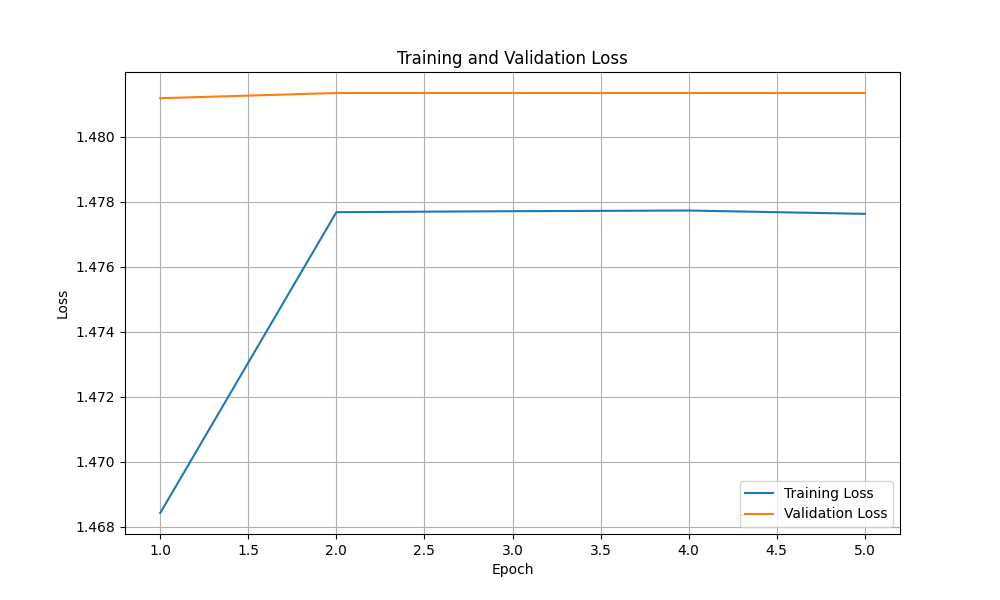
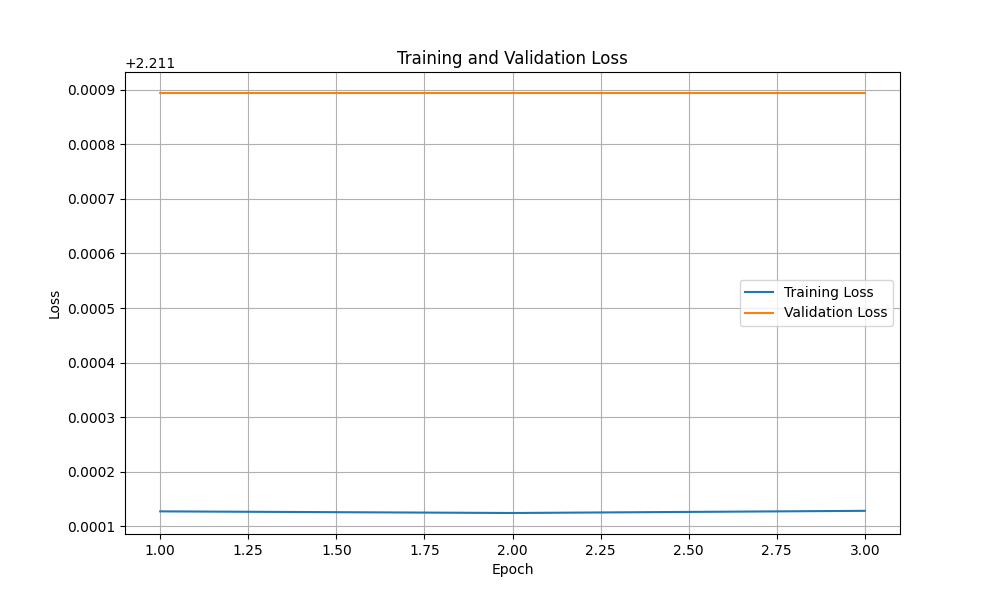
training is not happening properly. leraning rate changed to 0.001 and weight decay is removed

diff --git a/test_programs/task_3/test.py b/test_programs/task_3/test.py
@@ -45,7 +45,7 @@ device = torch.device("cuda" if torch.cuda.is_available() else "cpu")
 mlp_model = CustomMLP().to(device)
 
 loss_fn = nn.BCELoss()
-optimizer = optim.Adam(mlp_model.parameters(), lr=0.0005,weight_decay=0.01)
+optimizer = optim.Adam(mlp_model.parameters(), lr=0.001)
 
 checkpoint_path = "checkpoint.pth"  # Path to save/load checkpoint
 
@@ -65,7 +65,7 @@ def load_checkpoint(filename=checkpoint_path):
     if os.path.exists(filename):
         checkpoint = torch.load(filename)
         model = CustomMLP().to(device)
-        optimizer = optim.Adam(model.parameters(), lr=0.0005,weight_decay=0.01)
+        optimizer = optim.Adam(model.parameters(), lr=0.001)
         model.load_state_dict(checkpoint['model_state_dict'])
         optimizer.load_state_dict(checkpoint['optimizer_state_dict'])
         start_epoch = checkpoint['epoch'] + 1  # We want to resume from the next epoch
@@ -74,7 +74,7 @@ def load_checkpoint(filename=checkpoint_path):
     else:
         print("No checkpoint found, starting from scratch.")
         model = CustomMLP().to(device)
-        optimizer = optim.Adam(model.parameters(), lr=0.0005,weight_decay=0.01)
+        optimizer = optim.Adam(model.parameters(), lr=0.001)
         return model, optimizer, 0  # Start from epoch 0
 
 def load_dataloaders(train_loader_path, val_loader_path):
@@ -192,11 +192,11 @@ def plot_loss_curve(train_losses, val_losses):
     plt.show()
 
 
-epochs = 3
+epochs = 10
 save_interval = 1  # Save checkpoint every 1 epoch
 logging.basicConfig(filename='train_validation_losses.log', level=logging.DEBUG)
 
-# Load dataloaders
+# Load dataloadersq
 train_loader, val_loader = load_dataloaders(
     '/home/rehan/Projects/Pytorch_Image_Classification/dataloaders/train_loader.pkl',
     '/home/rehan/Projects/Pytorch_Image_Classification/dataloaders/val_loader.pkl'
